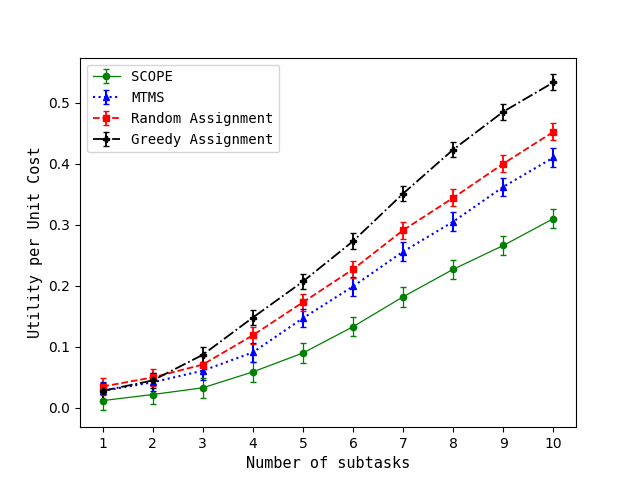
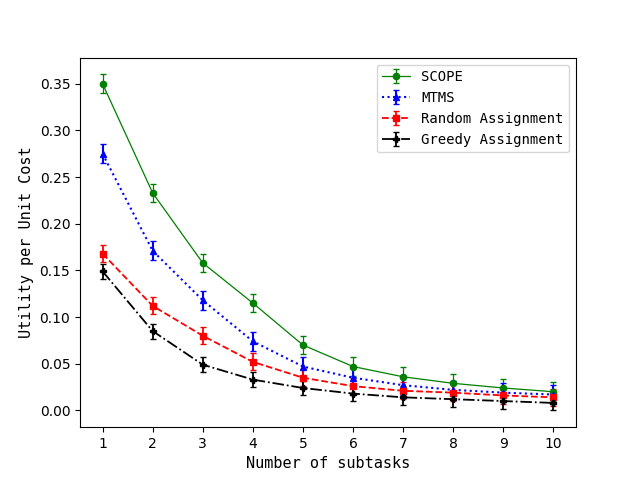
dataset and graph modified for utility tuning

diff --git a/dummygraph.py b/dummygraph.py
@@ -33,13 +33,13 @@ def subtaskVsLatency():
     plt.xlabel('Number of subtasks', fontsize=11, fontname='monospace')
     plt.ylabel('Service Latency', fontsize=11, fontname='monospace')
 
-    plt.errorbar(x1, y4, color='g', label='SCOPE', yerr=0.10, marker='o', capsize=2, linestyle='solid', linewidth=0.9,
+    plt.errorbar(x1, y4, color='g', label='SCOPE', yerr=0.08, marker='o', capsize=2, linestyle='solid', linewidth=0.9,
                  markersize=4.5, fillstyle='full')
-    plt.errorbar(x1, y1, color='b', label='MTMS', yerr=0.11, marker='^', capsize=2, linestyle='dotted', linewidth=2.0,
+    plt.errorbar(x1, y1, color='b', label='MTMS', yerr=0.09, marker='^', capsize=2, linestyle='dotted', linewidth=2.0,
                  markersize=4.2, fillstyle='full')
-    plt.errorbar(x1, y2, color='r', label='Random Assignment', yerr=0.10, marker='s', capsize=2, linestyle='dashed',
+    plt.errorbar(x1, y2, color='r', label='Random Assignment', yerr=0.08, marker='s', capsize=2, linestyle='dashed',
                  linewidth=1.3, markersize=4.0, fillstyle='full')
-    plt.errorbar(x1, y3, color='k', label='Greedy Assignment', yerr=0.09, marker='P', capsize=2, linestyle='dashdot',
+    plt.errorbar(x1, y3, color='k', label='Greedy Assignment', yerr=0.07, marker='P', capsize=2, linestyle='dashdot',
                  linewidth=1.3, markersize=4.7, fillstyle='full')
 
     font = font_manager.FontProperties(family='monospace', weight='regular', style='normal', size=10)
@@ -103,13 +103,13 @@ def subtaskVsUtilCost():
     plt.xlabel('Number of subtasks', fontsize=11, fontname='monospace')
     plt.ylabel('Utility per Unit Cost', fontsize=11, fontname='monospace')
 
-    plt.errorbar(x1, y4, color='g', label='SCOPE', yerr=0.016, marker='o', capsize=2, linestyle='solid', linewidth=0.9,
+    plt.errorbar(x1, y4, color='g', label='SCOPE', yerr=0.010, marker='o', capsize=2, linestyle='solid', linewidth=0.9,
                  markersize=4.5, fillstyle='full')
-    plt.errorbar(x1, y1, color='b', label='MTMS', yerr=0.015, marker='^', capsize=2, linestyle='dotted', linewidth=1.5,
+    plt.errorbar(x1, y1, color='b', label='MTMS', yerr=0.010, marker='^', capsize=2, linestyle='dotted', linewidth=1.5,
                  markersize=4.7, fillstyle='full')
-    plt.errorbar(x1, y2, color='r', label='Random Assignment', yerr=0.014, marker='s', capsize=2, linestyle='dashed',
+    plt.errorbar(x1, y2, color='r', label='Random Assignment', yerr=0.009, marker='s', capsize=2, linestyle='dashed',
                  linewidth=1.3, markersize=4.7, fillstyle='full')
-    plt.errorbar(x1, y3, color='k', label='Greedy Assignment', yerr=0.013, marker='P', capsize=2, linestyle='dashdot',
+    plt.errorbar(x1, y3, color='k', label='Greedy Assignment', yerr=0.008, marker='P', capsize=2, linestyle='dashdot',
                  linewidth=1.3, markersize=4.7, fillstyle='full')
 
     font = font_manager.FontProperties(family='monospace', weight='regular', style='normal', size=10)
@@ -172,13 +172,13 @@ def serverVsUtilityPerUnitCost():
     plt.xlabel('Number of Servers', fontsize=11, fontname='monospace')
     plt.ylabel('Utility per Unit Cost', fontsize=11, fontname='monospace')
 
-    plt.errorbar(x1, y4, color='g', label='SCOPE', yerr=0.022, marker='o', capsize=2, linestyle='solid', linewidth=0.9,
+    plt.errorbar(x1, y4, color='g', label='SCOPE', yerr=0.0022, marker='o', capsize=2, linestyle='solid', linewidth=0.9,
                  markersize=4.5, fillstyle='full')
-    plt.errorbar(x1, y1, color='b', label='MTMS', yerr=0.025, marker='^', capsize=2, linestyle='dotted', linewidth=1.5,
+    plt.errorbar(x1, y1, color='b', label='MTMS', yerr=0.0025, marker='^', capsize=2, linestyle='dotted', linewidth=1.5,
                  markersize=4.1, fillstyle='full')
-    plt.errorbar(x1, y2, color='r', label='Random Assignment', yerr=0.026, marker='s', capsize=2, linestyle='dashed',
+    plt.errorbar(x1, y2, color='r', label='Random Assignment', yerr=0.0026, marker='s', capsize=2, linestyle='dashed',
                  linewidth=1.3, markersize=3.8, fillstyle='full')
-    plt.errorbar(x1, y3, color='k', label='Greedy Assignment', yerr=0.017, marker='P', capsize=2, linestyle='dashdot',
+    plt.errorbar(x1, y3, color='k', label='Greedy Assignment', yerr=0.0017, marker='P', capsize=2, linestyle='dashdot',
                  linewidth=1.3, markersize=4.5, fillstyle='full')
 
     font = font_manager.FontProperties(family='monospace', weight='regular', style='normal', size=10)
@@ -292,13 +292,13 @@ def taskSizeVsUtilityPerUnitCost():
     plt.xlabel('Task size', fontsize=11, fontname='monospace')
     plt.ylabel('Utility per unit Cost', fontsize=11, fontname='monospace')
 
-    plt.errorbar(x1, y4, color='g', label='SCOPE', yerr=0.026, marker='o', capsize=2, linestyle='solid', linewidth=0.9,
+    plt.errorbar(x1, y4, color='g', label='SCOPE', yerr=0.0026, marker='o', capsize=2, linestyle='solid', linewidth=0.9,
                  markersize=4.5, fillstyle='full')
-    plt.errorbar(x1, y1, color='b', label='MTMS', yerr=0.025, marker='^', capsize=2, linestyle='dotted', linewidth=1.5,
+    plt.errorbar(x1, y1, color='b', label='MTMS', yerr=0.0025, marker='^', capsize=2, linestyle='dotted', linewidth=1.5,
                  markersize=4.7, fillstyle='full')
-    plt.errorbar(x1, y2, color='r', label='Random Assignment', yerr=0.022, marker='s', capsize=2, linestyle='dashed',
+    plt.errorbar(x1, y2, color='r', label='Random Assignment', yerr=0.0022, marker='s', capsize=2, linestyle='dashed',
                  linewidth=1.3, markersize=4.7, fillstyle='full')
-    plt.errorbar(x1, y3, color='k', label='Greedy Assignment', yerr=0.021, marker='P', capsize=2, linestyle='dashdot',
+    plt.errorbar(x1, y3, color='k', label='Greedy Assignment', yerr=0.0021, marker='P', capsize=2, linestyle='dashdot',
                  linewidth=1.3, markersize=4.7, fillstyle='full')
 
     font = font_manager.FontProperties(family='monospace', weight='regular', style='normal', size=10)
@@ -362,7 +362,7 @@ def taskSizeVsTaskDropBar():
 
 # subtaskVsLatency()
 # subtaskVsEnergy()
-# subtaskVsUtilCost()
+subtaskVsUtilCost()
 # subtaskVsTaskDrop()
 
 # serverVsLatency()

diff --git a/utilitypercost.py b/utilitypercost.py
@@ -2,8 +2,8 @@ import random
 import math
 import numpy as np
 
-f1 = open("Data/serverlatency.txt", 'r')
-f2 = open("Data/servervsenergy.txt", 'r')
+f1 = open("Data/subtasklatency.txt", 'r')
+f2 = open("Data/subtaskenergy.txt", 'r')
 lines = f1.readlines()
 mcts1, randm1, greedy1, sco1 = [], [], [], []
 for line in lines:
@@ -23,13 +23,18 @@ for line in lines:
     sco2.append(cur[4])
 
 mcts3, randm3, greedy3, sco3 = [], [], [], []
-divide = [4, 4, 4, 4, 4, 4, 4, 4, 4, 4]
+divide = [1, 2, 3, 4, 5, 6, 7, 8, 9, 10]
+cost1 = [46.3, 50.123, 49.37, 54.61, 56.48, 50.1, 49.17, 54.50, 56.95, 55.54]
+cost2 = [43.3, 51.123, 52.37, 54.61, 56.48, 53.1, 51.17, 55.15, 57.95, 55.70]
+cost3 = [53.3, 51.123, 54.37, 56.61, 57.48, 59.1, 58.17, 58.15, 59.95, 55.80]
+cost4 = [43.3, 47.123, 50.37, 52.61, 52.48, 50.1, 50.17, 53.15, 54.95, 56.00]
+
 alpha = .5
 for i in range(0, len(sco1)):
-    mcts3.append(((float(mcts1[i])/1) * alpha + float(mcts2[i]) * 5 * (1 - alpha)))
-    randm3.append(((float(randm1[i])/1) * alpha + float(randm2[i]) * 5 * (1 - alpha)))
-    greedy3.append(((float(greedy1[i])/1) * alpha + float(greedy2[i]) * 5 * (1 - alpha)))
-    sco3.append(((float(sco1[i])/1) * alpha + float(sco2[i]) * 5 * (1 - alpha)))
+    mcts3.append((1/((float(mcts1[i])/1) * alpha + float(mcts2[i]) * 5 * (1 - alpha)))/52)
+    randm3.append((1/((float(randm1[i])/1) * alpha + float(randm2[i]) * 5 * (1 - alpha)))/54)
+    greedy3.append((1/((float(greedy1[i])/1) * alpha + float(greedy2[i]) * 5 * (1 - alpha)))/56)
+    sco3.append((1/((float(sco1[i])/1) * alpha + float(sco2[i]) * 5 * (1 - alpha)))/52)
 
 tasksize = 200
 subtask = 1
